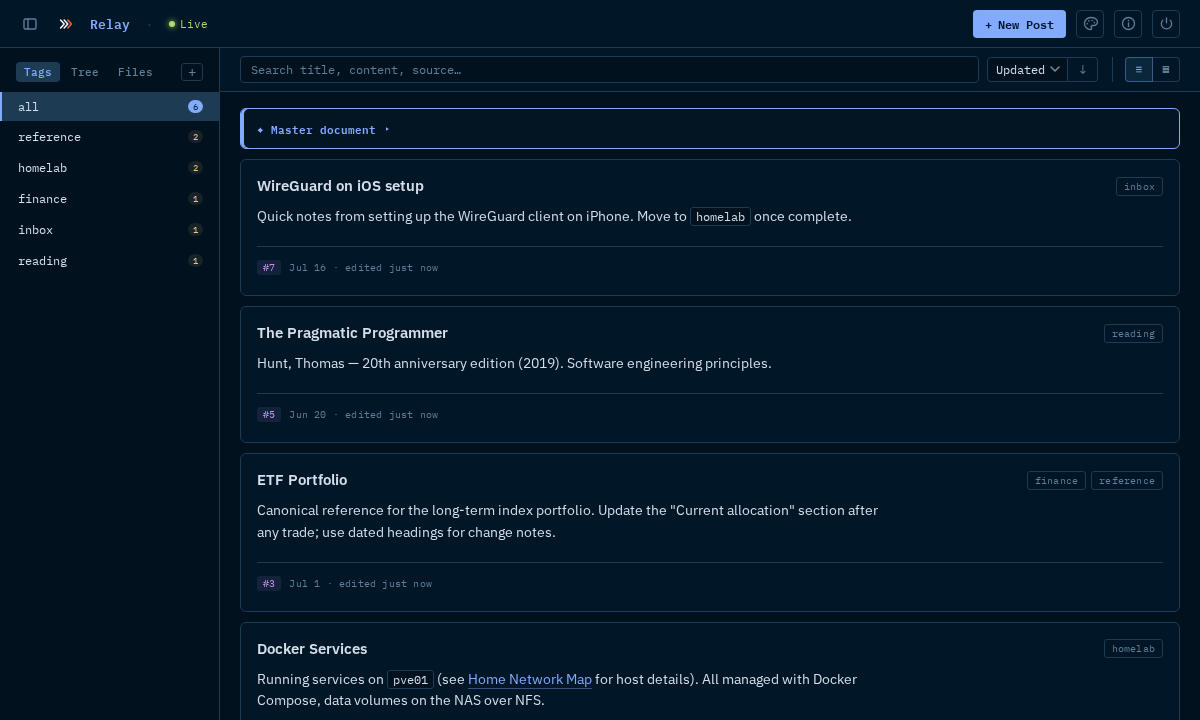
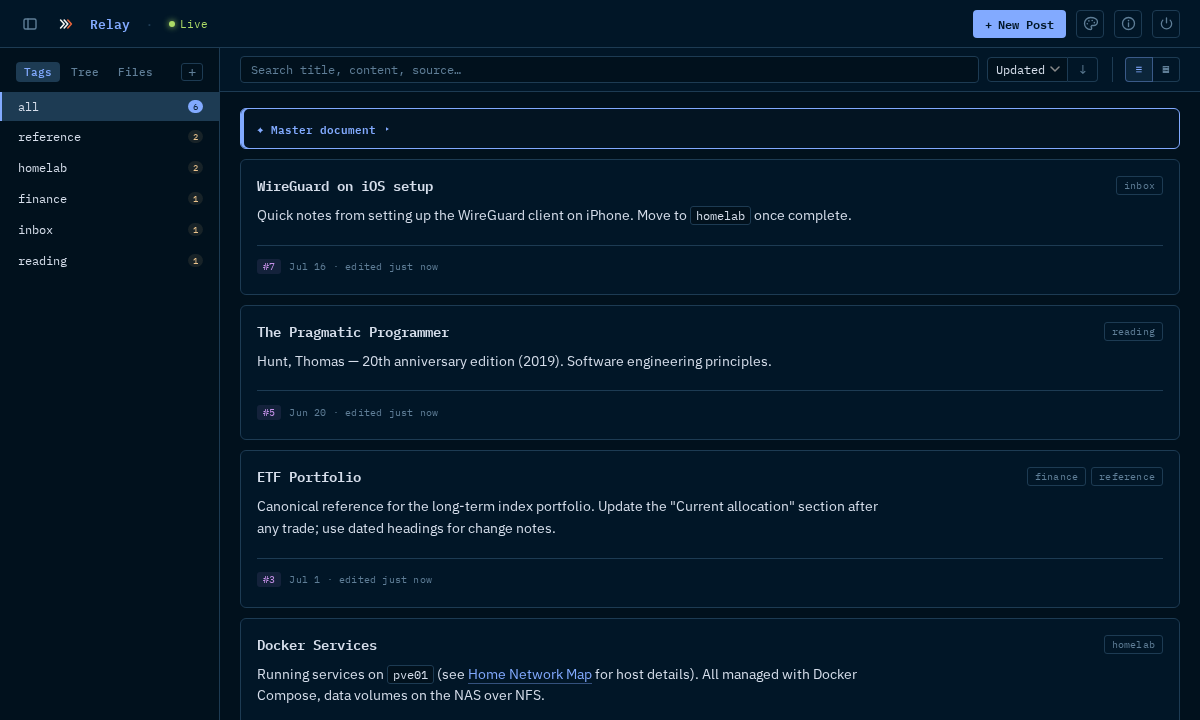
Mono for titles, headings and data tables; stronger Ayu Dark borders
The sans now carries only running prose (paragraphs, list items, quotes,
tables with a prose column); titles, headings, data tables and code return to
Plex Mono. Card body headings sit under the card title. Ayu Dark's --border is
its gutter grey over the card background — ui.line all but vanished. Theme
gallery regenerated.

Claude-Session: https://claude.ai/code/session_01BSLv5KDFKcFjnvvB2Mt2b9

diff --git a/relay/static/ui/app.css b/relay/static/ui/app.css
@@ -86,10 +86,11 @@ a:focus-visible      { outline: 2px solid var(--accent); outline-offset: 2px; bo
   font-size: 13px;
 }
 
-/* Two faces, two jobs: the mono runs the interface — chrome, metadata, ids,
-   code, the editor — and the sans carries what people read, titles and post
-   text. Same family, so they sit together; different enough to tell which is
-   which at a glance. On `html`, not `:root`: they are not per-theme tokens. */
+/* Two faces, two jobs: the mono is relay's voice — chrome, metadata, titles,
+   headings, tables, code, the editor — and the sans carries only running
+   prose (paragraphs, list items, quotes), where line after line of mono tires
+   the eye. Same family, so they sit together. On `html`, not `:root`: they
+   are not per-theme tokens. */
 html {
   --font-ui:   'IBM Plex Mono', monospace;
   --font-read: 'IBM Plex Sans', system-ui, sans-serif;
@@ -934,7 +935,7 @@ html {
   color-scheme: dark;
   --bg:          #0b0e14;   /* common.bg */
   --surface:     #0d1017;   /* editor.bg */
-  --border:      #1b1f29;   /* ui.line */
+  --border:      #2a2e36;   /* gutter grey #6c7380 at 30% over editor.bg — ui.line (#1b1f29) all but vanished */
   --text:        #bfbdb6;   /* editor.fg */
   --muted:       #6c7380;   /* gutter.active — see block note */
   --accent:      #e6b450;   /* common.accent */
@@ -1430,8 +1431,7 @@ main { flex: 1; display: flex; flex-direction: column; overflow: hidden; }
 .feed .post-body { font-size: 14px; line-height: 1.55; }
 .feed:not(.grid) .post-body { max-width: 80ch; }   /* a wide list card still reads at line length */
 .feed .post-body > :first-child { margin-top: 0; }
-.feed .post-body h1, .feed .post-body h2 { font-size: 15px; }
-.feed .post-body h3 { font-size: 14px; }
+.feed .post-body :is(h1, h2, h3) { font-size: 13px; }   /* under the card's 14px title, never over it */
 .feed .post:not(.master-doc) .post-body > :not(:first-child):not(:is(h1, h2, h3, h4, h5, h6):first-child + *) { display: none; }
 .feed .post:not(.master-doc) .post-body > :is(p, blockquote) {
   display: -webkit-box; -webkit-box-orient: vertical; -webkit-line-clamp: 3; overflow: hidden;
@@ -1468,7 +1468,7 @@ main { flex: 1; display: flex; flex-direction: column; overflow: hidden; }
 .feed:not(.grid) .t-doc-updated::before { content: "· "; }
 
 .post-header { display: flex; align-items: center; justify-content: space-between; flex-wrap: wrap; gap: 8px; margin-bottom: 10px; }
-.post-title  { font-family: var(--font-read); font-size: 15px; font-weight: 600; line-height: 1.35; color: var(--text); flex: 1; min-width: 0; white-space: nowrap; overflow: hidden; text-overflow: ellipsis; }
+.post-title  { font-size: 14px; font-weight: 600; line-height: 1.35; color: var(--text); flex: 1; min-width: 0; white-space: nowrap; overflow: hidden; text-overflow: ellipsis; }
 a.post-title { text-decoration: none; }
 /* List mode: the title sizes to its text and the tags wrap under it once they
    no longer fit beside it — five tags used to shrink a title to "A very long
@@ -1496,13 +1496,14 @@ a.post-title { text-decoration: none; }
 }
 
 /* The reading scale: 15 body, 18 section, 22 title (13 is the interface's own
-   size). Code keeps the interface face — it is something you copy, not read. */
+   size). Headings, tables and code keep the interface face — they are
+   structure and data, scanned and copied rather than read line after line. */
 .post-body { font-family: var(--font-read); color: var(--body); line-height: 1.65; font-size: 15px; overflow-wrap: anywhere; }
 .post-body h1, .post-body h2, .post-body h3 { color: var(--text); margin: 1.4em 0 0.4em; font-weight: 600; line-height: 1.3; }
 .post-body h1 { font-size: 22px; }
 .post-body h2 { font-size: 18px; }
 .post-body h3 { font-size: 15px; color: var(--body-strong); }
-.post-body :is(code, pre, kbd) { font-family: var(--font-ui); }
+.post-body :is(h1, h2, h3, h4, h5, h6, table, code, pre, kbd) { font-family: var(--font-ui); }
 .post-body hr { border: none; border-top: 1px solid var(--border); margin: 14px 0; }
 .post-body p         { margin: 6px 0; }
 /* 2.2em holds a two-digit marker ("10.") inside the box — 18px clipped "1." to
@@ -1574,6 +1575,7 @@ a.post-title { text-decoration: none; }
    wraps at spaces and hyphens like prose — `anywhere` split `fleet-health.sh`
    into four one-syllable pills. */
 .post-body td a { overflow-wrap: anywhere; }
+.post-body table.prose-table { font-family: var(--font-read); }   /* see render.js floorProseColumns */
 .post-body th        { background: var(--bg); color: var(--text); font-weight: 600; }
 .post-body tr:nth-child(even) td { background: var(--wash-raise); }
 .table-scroll {
@@ -2405,7 +2407,7 @@ button.sm-act-title:hover { color: var(--accent); }
   display: flex; align-items: flex-start; gap: 12px;
   padding: 18px 20px 0; flex-shrink: 0;
 }
-.pm-title { flex: 1; min-width: 0; font-family: var(--font-read); font-size: 22px; font-weight: 600; color: var(--text); line-height: 1.3; overflow-wrap: anywhere; }
+.pm-title { flex: 1; min-width: 0; font-size: 22px; font-weight: 600; color: var(--text); line-height: 1.3; overflow-wrap: anywhere; }
 .pm-back {
   display: none; background: none; border: none;
   color: var(--muted); cursor: pointer; font-family: inherit;
@@ -2523,7 +2525,7 @@ button.sm-act-title:hover { color: var(--accent); }
   box-shadow: var(--shadow-modal);
   animation: modalIn 0.12s ease backwards;
 }
-.lp-title { font-family: var(--font-read); font-size: 14px; font-weight: 600; color: var(--text); margin-bottom: 5px; }
+.lp-title { font-size: 13px; font-weight: 600; color: var(--text); margin-bottom: 5px; }
 .lp-tags  { display: flex; flex-wrap: wrap; gap: 4px; margin-bottom: 6px; }
 .lp-tag   { font-size: 10px; color: var(--muted); background: var(--bg); border: 1px solid var(--border); border-radius: 3px; padding: 1px 5px; }
 .lp-body  { font-family: var(--font-read); font-size: 12px; color: var(--muted); line-height: 1.5; }

diff --git a/relay/static/ui/js/render.js b/relay/static/ui/js/render.js
@@ -49,7 +49,9 @@ export function wrapTables(root) {
 /* Once a table overflows, automatic layout shrinks *every* column to its
    longest word — on a phone a paragraph column ended up 98px wide beside short
    ones. A column whose longest cell reads as prose keeps a floor instead, and
-   the table scrolls rather than crushing it. Short columns are left tight. */
+   the table scrolls rather than crushing it. Short columns are left tight.
+   A table with a prose column reads as prose, so it is set in the reading
+   face (`.prose-table`); a table of short values stays mono, as data. */
 const PROSE_CHARS = 30;
 function floorProseColumns(table) {
   const longest = [];
@@ -60,6 +62,7 @@ function floorProseColumns(table) {
       longest[i] = Math.max(longest[i] || 0, cell.textContent.trim().length - code);
     });
   }
+  table.classList.toggle('prose-table', longest.some(n => n >= PROSE_CHARS));
   for (const row of table.rows) {
     [...row.cells].forEach((cell, i) => { if (longest[i] >= PROSE_CHARS) cell.style.minWidth = '10em'; });
   }

diff --git a/tests/ui/test_visual_direction.py b/tests/ui/test_visual_direction.py
@@ -17,15 +17,16 @@ pytestmark = pytest.mark.ui
 _FONT = "(sel) => getComputedStyle(document.querySelector(sel)).fontFamily"
 
 
-def test_people_read_in_the_sans_and_the_interface_stays_mono(page, relay_server):
-    post = _api(relay_server, "POST", "/posts", {
-        "title": _unique("Faces"), "content": "Prose with `code` in it.\n\n```\nblock\n```", "tags": ["homelab"]})
-    page.reload()
-    card = f'.post[data-id="{post["id"]}"]'
-    page.locator(card).wait_for()
-    for sel in (f"{card} .post-title", f"{card} .post-body p"):
+def test_prose_reads_in_the_sans_and_everything_else_stays_mono(page, relay_server):
+    body = ("## Part\n\nProse with `code` in it.\n\n- an item\n\n| id | note |\n|---|---|\n"
+            "| 1 | a sentence long enough to count as prose in its column |\n\n"
+            "| job | keep |\n|---|---|\n| vms | 7d |")
+    post = _api(relay_server, "POST", "/posts", {"title": _unique("Faces"), "content": body, "tags": ["homelab"]})
+    _open_post(page, relay_server, post["id"])
+    for sel in ("#pmBody .post-body p", "#pmBody .post-body li", "#pmBody .post-body table.prose-table td"):
         assert "IBM Plex Sans" in page.evaluate(_FONT, sel), sel
-    for sel in (f"{card} .post-body code", f"{card} .post-id-pill", ".tag-name", "#searchInput"):
+    for sel in ("#pmTitle", "#pmBody .post-body h2", "#pmBody .post-body table:not(.prose-table) td",
+                "#pmBody .post-body code", ".post-id-pill", ".tag-name", "#searchInput"):
         assert "IBM Plex Mono" in page.evaluate(_FONT, sel), sel
 
 

diff --git a/CLAUDE.md b/CLAUDE.md
@@ -108,7 +108,7 @@ Machine-checks #0's written rules: tag axes, stale Inbox, H1 missing/mismatched,
 Single-page app on REST + SSE: ES modules, no build step, `marked` and `DOMPurify` vendored; `/` carries a CSP (`main.ui_csp()`, script hashes computed from `index.html`) — no inline handlers or `javascript:` URLs, use `addEventListener`.
 
 - **Themes** (docs/themes.md, regenerated by `scripts/theme_gallery.py`): a token block in `app.css` plus a `CATALOGUE` entry in `theme.js`, nothing else. **Colour lives in tokens only** (`tests/test_css_tokens.py` rejects literals outside `:root` blocks — it reads `#feed` as a hex colour, so use `.feed`). Tested floors: `--body` ≥ 7:1 on `--surface` (house themes ≥ 9.5, text ≥ 10; `REPRODUCTIONS` below that), `--on-accent` on `--accent` and chips ≥ 4.5, every small-text role (muted on card/sidebar/tag pill, accent, red, green, hovered primary) ≥ 4.5 (`test_small_text_roles_clear_aa`, palette limits in `TEXT_ROLE_EXCEPTIONS`). Fix a shortfall with another member of the same palette, never a mix; a palette whose text can't reach 7:1 doesn't ship.
-- **Typography: two faces, two jobs** (`--font-ui`/`--font-read` on `html`, not `:root` — they aren't theme tokens). IBM Plex Mono runs the interface (chrome, metadata, ids, code, the editor); IBM Plex Sans is what people read (titles, post bodies, link previews). Reading scale 15 body / 18 section / 22 title; the post column is `--measure: 40rem` (~75 characters), the post and lint panels are that plus 440px. **No `text-transform: uppercase`** except a file extension (`test_nothing_is_set_in_capitals_but_file_extensions`). Card previews end on whole lines (first block, line-clamp, item/row caps), never a pixel clip with a fade. A writer's mark (`dom.authorMark`) is one of the three accents hashed from the name.
+- **Typography: two faces, two jobs** (`--font-ui`/`--font-read` on `html`, not `:root` — they aren't theme tokens). IBM Plex Mono is relay's voice (chrome, metadata, ids, titles, headings, tables, code, the editor); IBM Plex Sans carries only running prose (paragraphs, list items, quotes, a table with a prose column — `render.floorProseColumns` marks it `.prose-table`; a table of short values stays mono — and link-preview text). Reading scale 15 body / 18 section / 22 title; the post column is `--measure: 40rem` (~75 characters), the post and lint panels are that plus 440px. **No `text-transform: uppercase`** except a file extension (`test_nothing_is_set_in_capitals_but_file_extensions`). Card previews end on whole lines (first block, line-clamp, item/row caps), never a pixel clip with a fade. A writer's mark (`dom.authorMark`) is one of the three accents hashed from the name.
 - **Icons are inline SVG from `js/icons.js`**, never emoji or rare glyphs (blank boxes without an emoji font — `tests/test_ui_glyphs.py`).
 - **Modals are wired once, by `wireModal` (`js/dialog.js`)**: ×, backdrop, swipe, Escape (always the top-most modal), an optional `confirmDiscard` on every user dismissal, `role="dialog"`, focus in/trap/return, and `closeAllModals()` on sign-out. Modules only toggle the `open` class. A new modal is wired with `wireModal` and added to `SHEETS` in `tests/ui/test_sheets.py` (`test_every_desktop_modal_shares_the_same_chrome`). The body never scrolls (the feed does), so nothing locks it.
 - **Feed**: only the newest `loadPosts` response paints (`loadSeq`); paging is by offset, so a removed card decrements `query.offset`, a live insert increments it, and an appended page skips ids already shown. Filters are one of tag, folder or author (`setFilter`; author from a card's `updated_by` chip). The SSE stream filters by tag only — `setFilter` reconnects it whenever the tag changes; with a search, folder, author or non-default sort, live posts go to the "new posts" pill. The "all" row counts posts (`postCount()`), never summed counts. Replace cards through `replaceCard` (keeps `.pinned`). Grid tiles size to content up to 340px and stretch to their row's tallest (sized to content alone at ≤560px). The master document card is one line until opened.

diff --git a/CHANGELOG.md b/CHANGELOG.md
@@ -9,11 +9,12 @@ All notable changes to relay are documented here. Releases follow [semantic vers
 The visual direction from the web UI review (relay #198, B-13).
 
 ### Changed
-- **A reading face**: titles and post text are set in IBM Plex Sans, on a 15/18/22 scale, in a column of about 75 characters; IBM Plex Mono stays for the interface, metadata and code. The post view is sized to that column instead of 1320px
+- **A reading face for prose**: paragraphs, list items and quotes are set in IBM Plex Sans, on a 15/18/22 scale, in a column of about 75 characters; IBM Plex Mono stays for everything else — the interface, titles, headings, tables and code. The post view is sized to that column instead of 1320px
 - **Sentence case** throughout: the 24 places that shouted in tracked-out capitals (buttons, tabs, section titles, badges) now don't; only file extensions stay upper-case
 - **Card previews end on whole lines** — the opening block, a paragraph cut at three lines with an ellipsis, a list at three items — instead of a pixel cut faded out; list cards keep a readable line length on wide screens
 - **Each writer has a mark**: a small swatch in one of the theme's accents, the same on cards, in History and in Recent activity
 - The master document's badge is the card's label rather than a second box inside it
+- **Ayu Dark** borders are a step stronger (its gutter grey over the card background); `ui.line` all but vanished against the cards
 - The theme gallery (docs/themes.md) is regenerated
 
 ---
